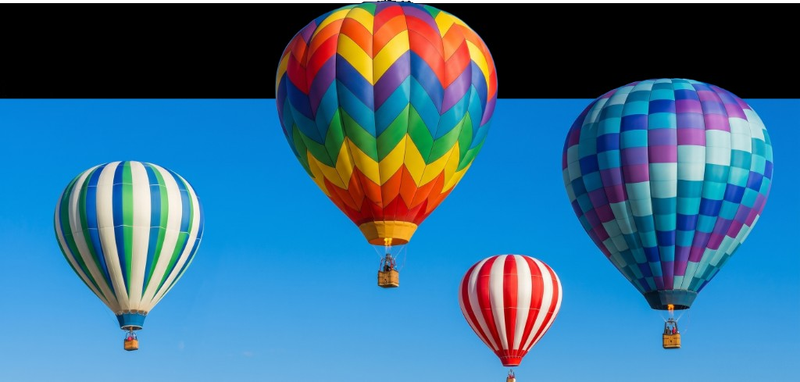
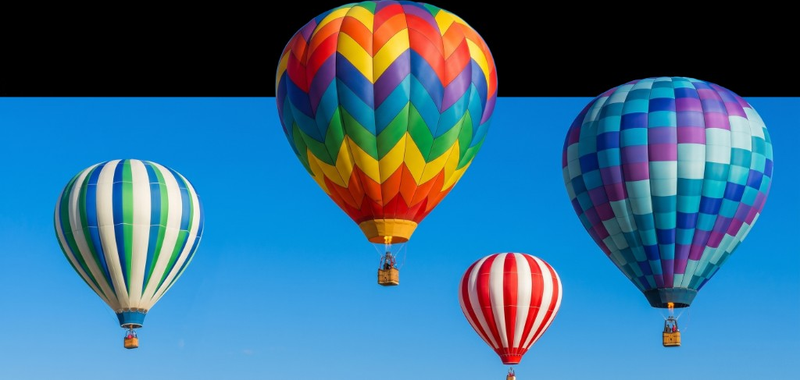
Rebuild mongolfiere PNG from source without broken transparency.
Crop only the top black bar rows from the original artwork instead of keying out black pixels, preserving balloon details and clean edges.

diff --git a/index.html b/index.html
@@ -2182,7 +2182,7 @@
         <div class="registration-left">
           <div class="registration-media">
             <figure class="registration-visual">
-              <img src="assets/backgroundmongolfiere-card.png" alt="Mongolfiere colorate nel cielo per rappresentare un momento di incontro e confronto con la community" width="800" height="382" loading="lazy" decoding="async" />
+              <img src="assets/backgroundmongolfiere-card.png" alt="Mongolfiere colorate nel cielo per rappresentare un momento di incontro e confronto con la community" width="800" height="380" loading="lazy" decoding="async" />
             </figure>
             <div class="registration-copy">
               <p class="kicker">Webinar gratuito</p>
